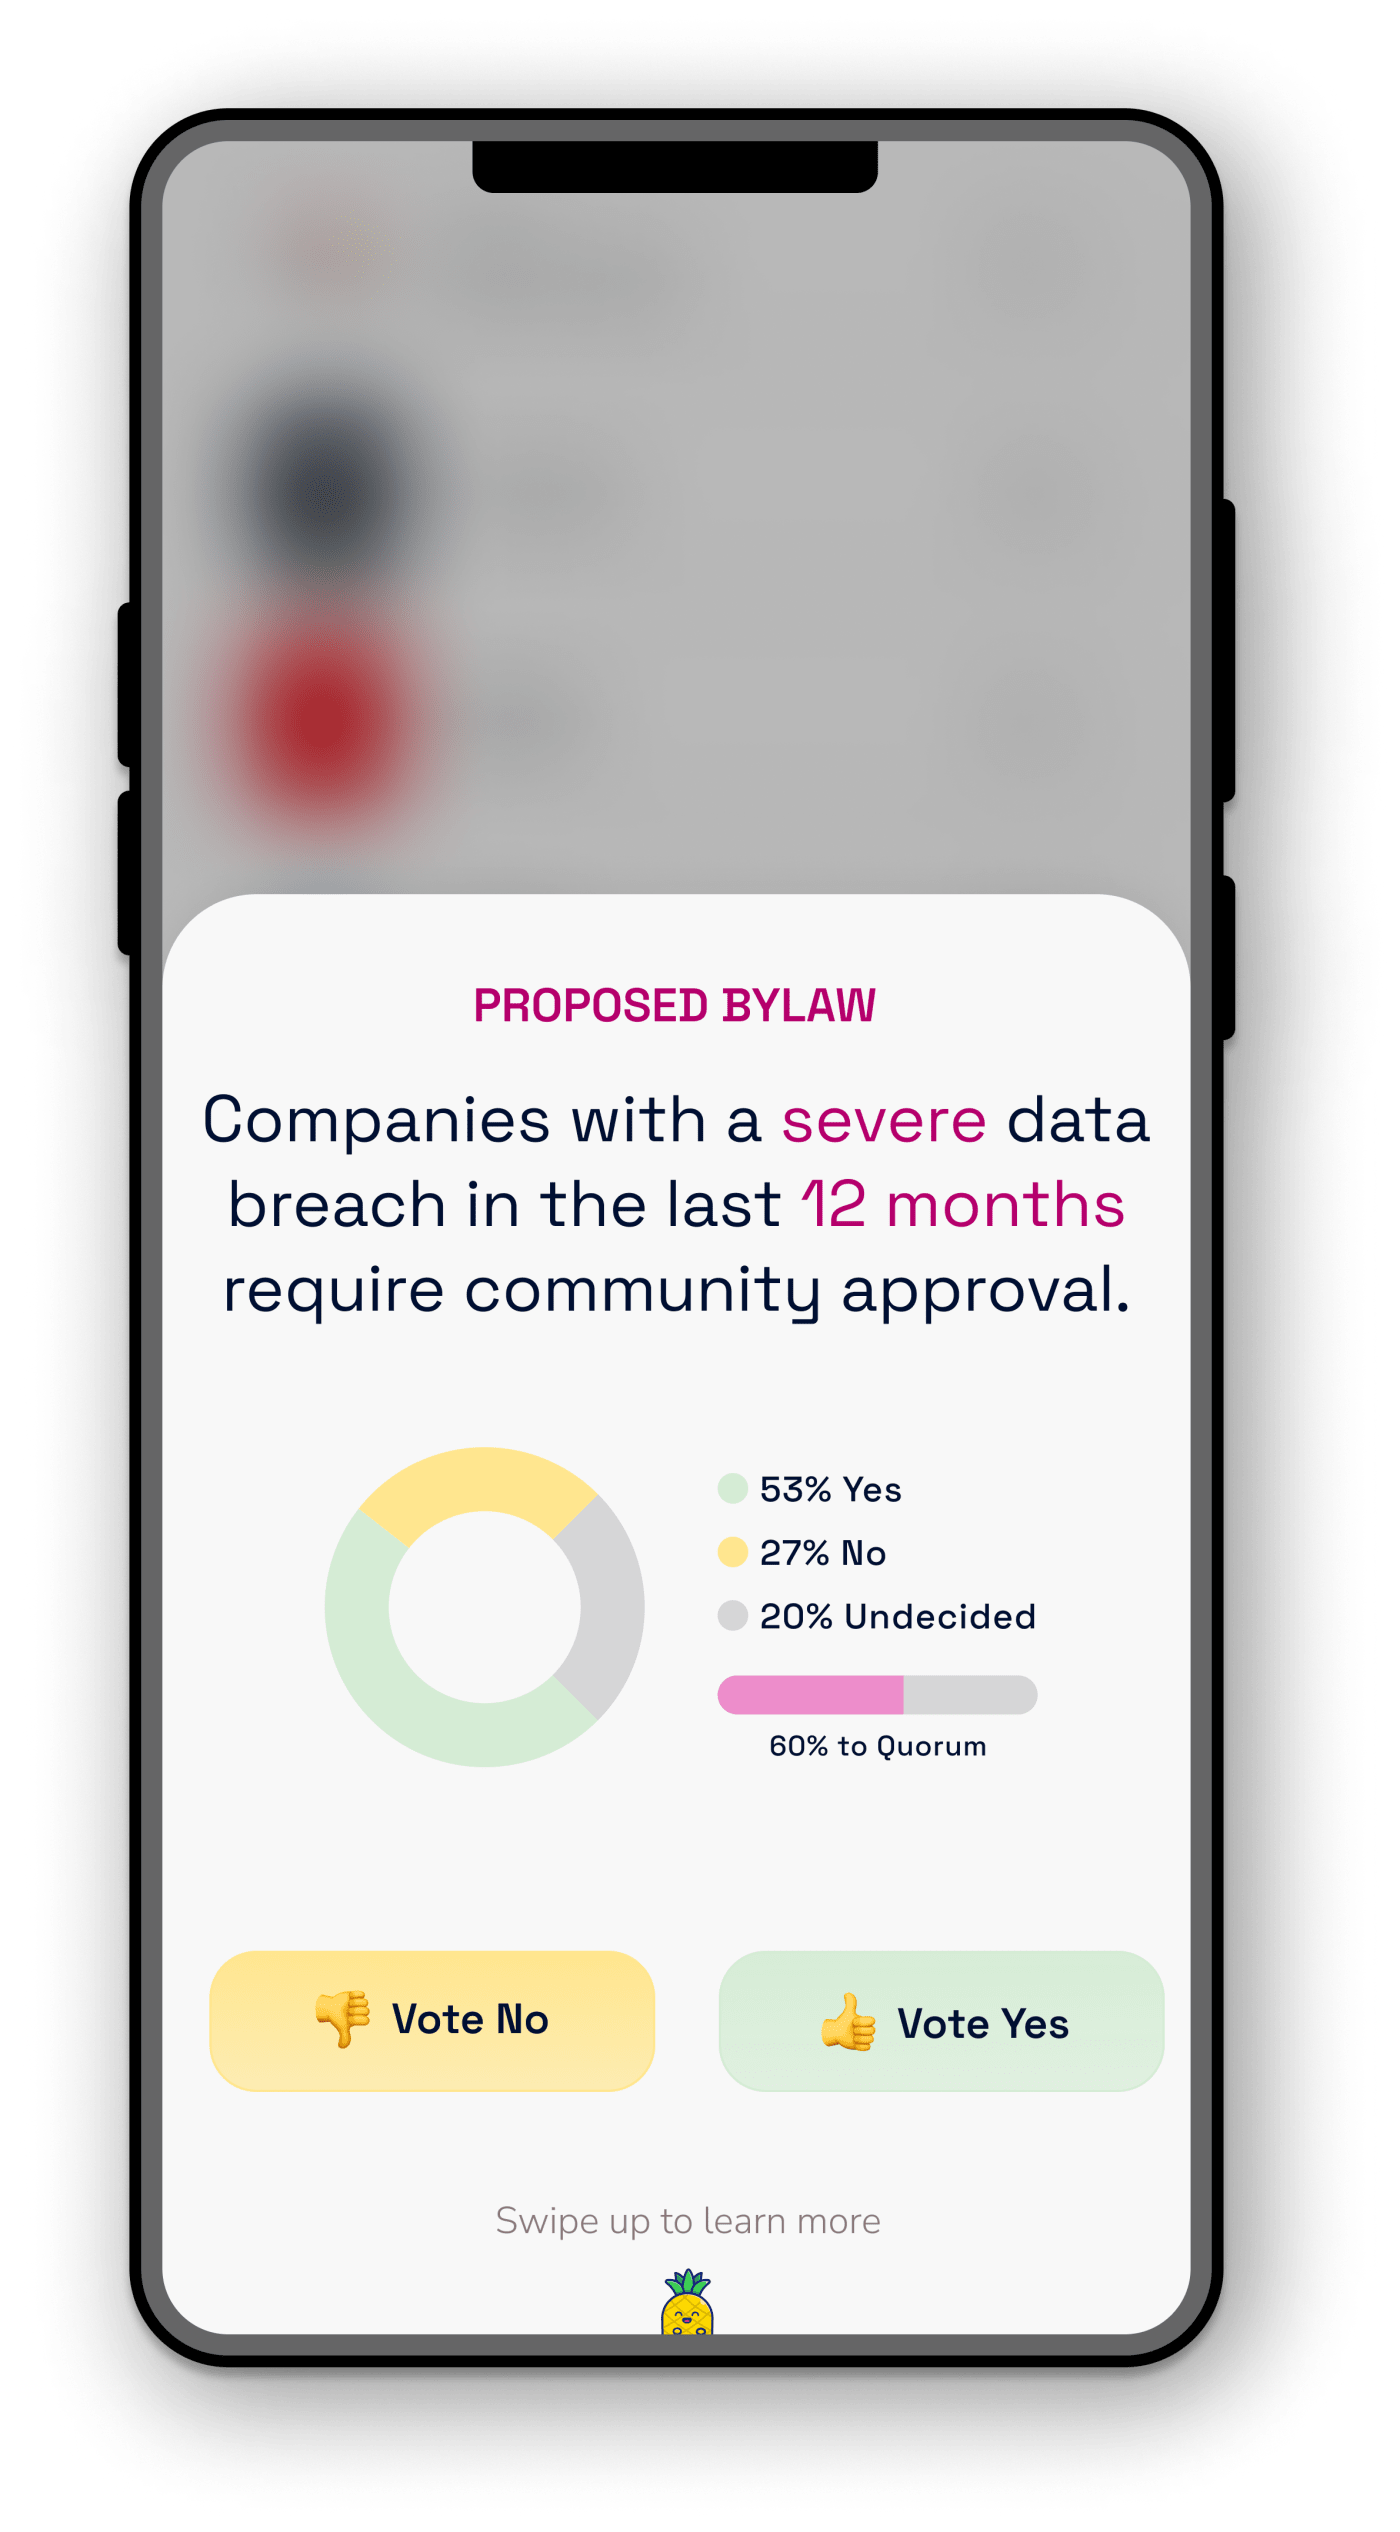
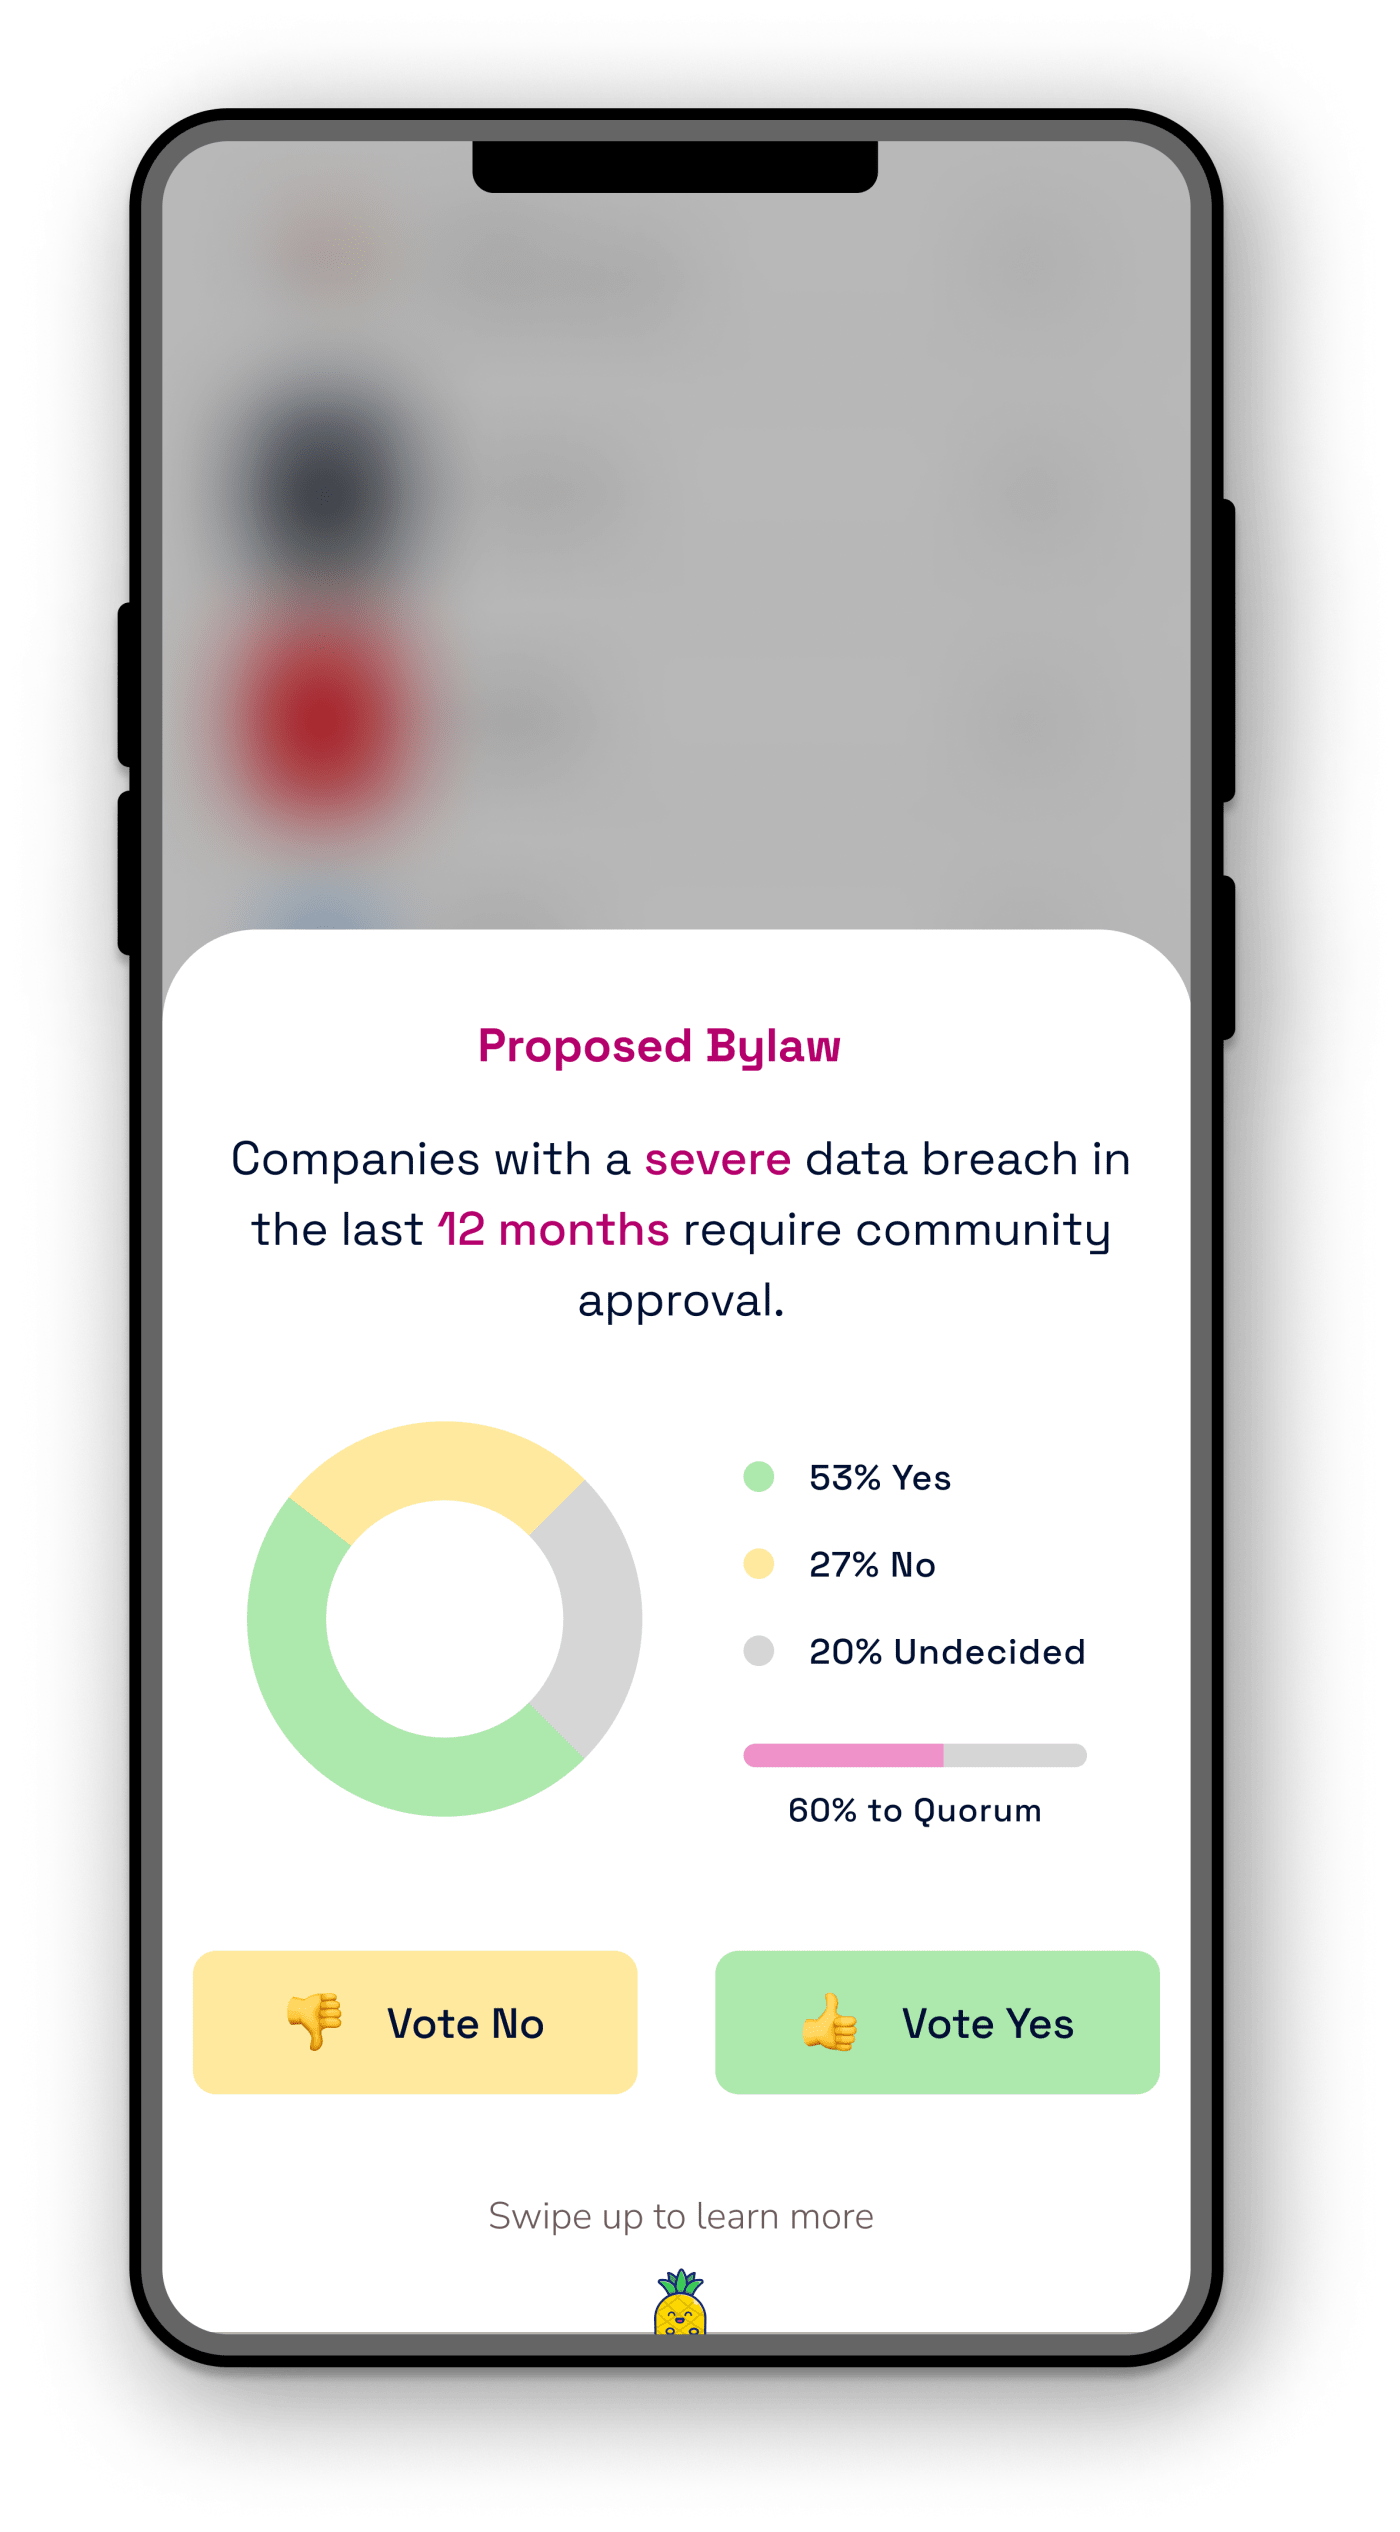
update app image & point example to docs

diff --git a/components/banner/BannerAppCmp.vue b/components/banner/BannerAppCmp.vue
@@ -13,20 +13,22 @@
             sizes="(max-width: 1400px) 100vw, 1400px"
             srcset="
               ~/assets/images/png/app_banner_w_200.png   200w,
-              ~/assets/images/png/app_banner_w_394.png   394w,
-              ~/assets/images/png/app_banner_w_529.png   529w,
-              ~/assets/images/png/app_banner_w_634.png   634w,
-              ~/assets/images/png/app_banner_w_651.png   651w,
-              ~/assets/images/png/app_banner_w_924.png   924w,
-              ~/assets/images/png/app_banner_w_964.png   964w,
-              ~/assets/images/png/app_banner_w_994.png   994w,
-              ~/assets/images/png/app_banner_w_1051.png 1051w,
-              ~/assets/images/png/app_banner_w_1044.png 1044w,
-              ~/assets/images/png/app_banner_w_1228.png 1228w,
-              ~/assets/images/png/app_banner_w_1270.png 1270w,
-              ~/assets/images/png/app_banner_w_1290.png 1290w,
-              ~/assets/images/png/app_banner_w_1343.png 1343w,
-              ~/assets/images/png/app_banner_w_1314.png 1314w,
+              ~/assets/images/png/app_banner_w_389.png   389w,
+              ~/assets/images/png/app_banner_w_635.png   635w,
+              ~/assets/images/png/app_banner_w_660.png   660w,
+              ~/assets/images/png/app_banner_w_690.png   690w,
+              ~/assets/images/png/app_banner_w_950.png   950w,
+              ~/assets/images/png/app_banner_w_951.png   951w,
+              ~/assets/images/png/app_banner_w_996.png   996w,
+              ~/assets/images/png/app_banner_w_1030.png 1030w,
+              ~/assets/images/png/app_banner_w_1054.png 1054w,
+              ~/assets/images/png/app_banner_w_1121.png 1121w,
+              ~/assets/images/png/app_banner_w_1207.png 1207w,
+              ~/assets/images/png/app_banner_w_1275.png 1275w,
+              ~/assets/images/png/app_banner_w_1278.png 1278w,
+              ~/assets/images/png/app_banner_w_1345.png 1345w,
+              ~/assets/images/png/app_banner_w_1382.png 1382w,
+              ~/assets/images/png/app_banner_w_1387.png 1387w,
               ~/assets/images/png/app_banner_w_1400.png 1400w
             "
             src="~/assets/images/png/app_banner_w_1400.png"

diff --git a/components/catalog/CatalogUseCmp.vue b/components/catalog/CatalogUseCmp.vue
@@ -14,7 +14,7 @@
         title="On-chain Terms of Service"
         subtitle="Difficulty level: 1. We walk through using TIKI to manage the most common form of user data consent —agreeing to the terms of service."
         extra="Manage user consent with TIKI →"
-        href="https://blog.mytiki.com/p/example-on-chain-terms-of-service"
+        href="https://docs.mytiki.com/docs/tiki-sdk-flutter-example-on-chain-tos"
         class="useCase"
       />
       <catalog-wide-cmp
